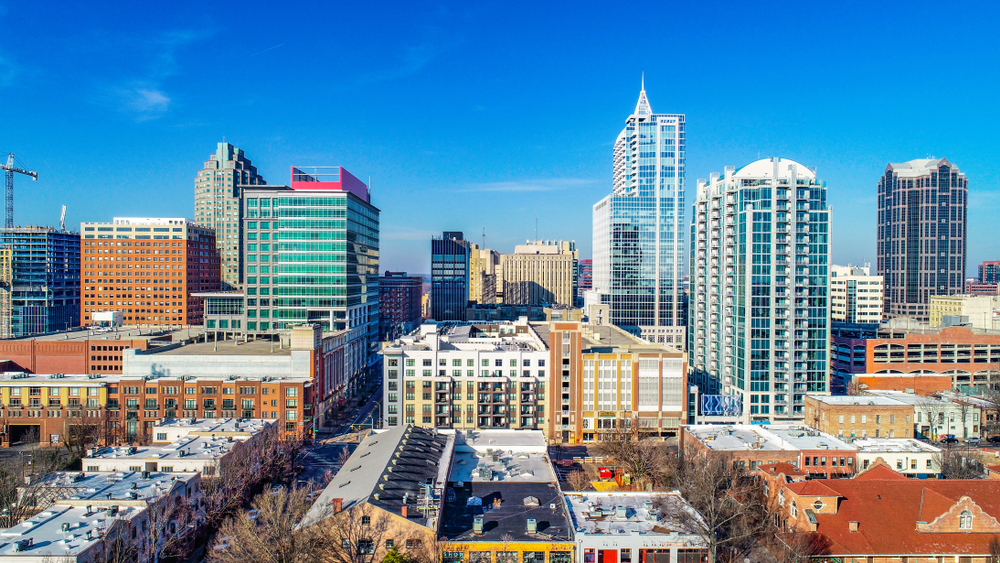
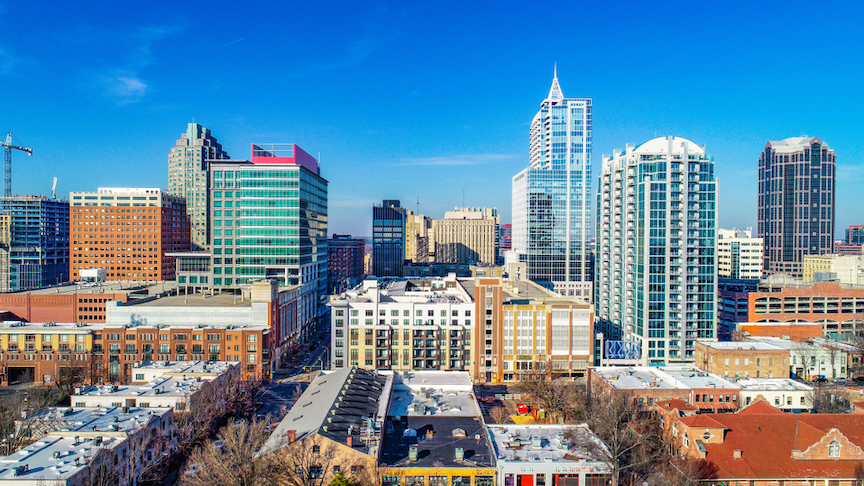
resize images

diff --git a/index.html b/index.html
@@ -65,7 +65,7 @@
       <div class="col-md-6 mb-50">
         <div class="section-info">
           <div class="sub-title-paragraph">
-            <h4>$3,000/month</h4>
+            <h4>2,950/month</h4>
             <h5>Available for Rent Beginning May 2022</h5>
             <p> The perfect place to call home, this bungalow is a beatiful remodel, conveniently walkable to all your favorite downtown spots. Enjoy the morning sunshine through the tall living room windows, tap a draft in the kitchen when you need it most, or relax under the market lights on the back patio. The thoughtful restoration includes exposed beams, a wood stove and a number of style choices that create a premium blend of efficiency and character.<br><br>Located in Historic Boylan Heights, the home sits adjacent to a well-manicured neighborhood park and is just a short walk to the best views in the city on Boylan Bridge. Allow this welcoming neighborhood to charm you and embrace the energy of a truly urban lifestyle. </p>
           </div>
